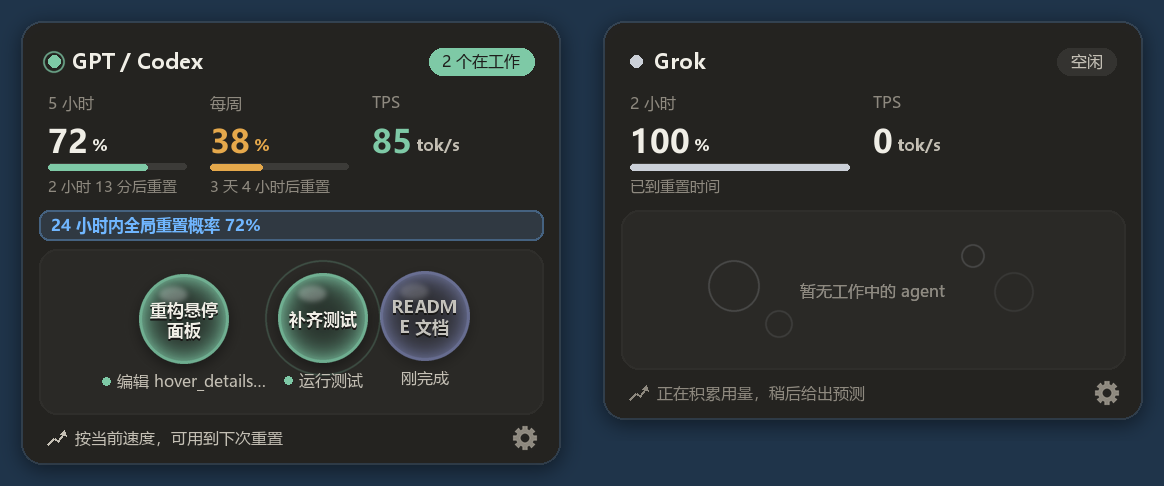
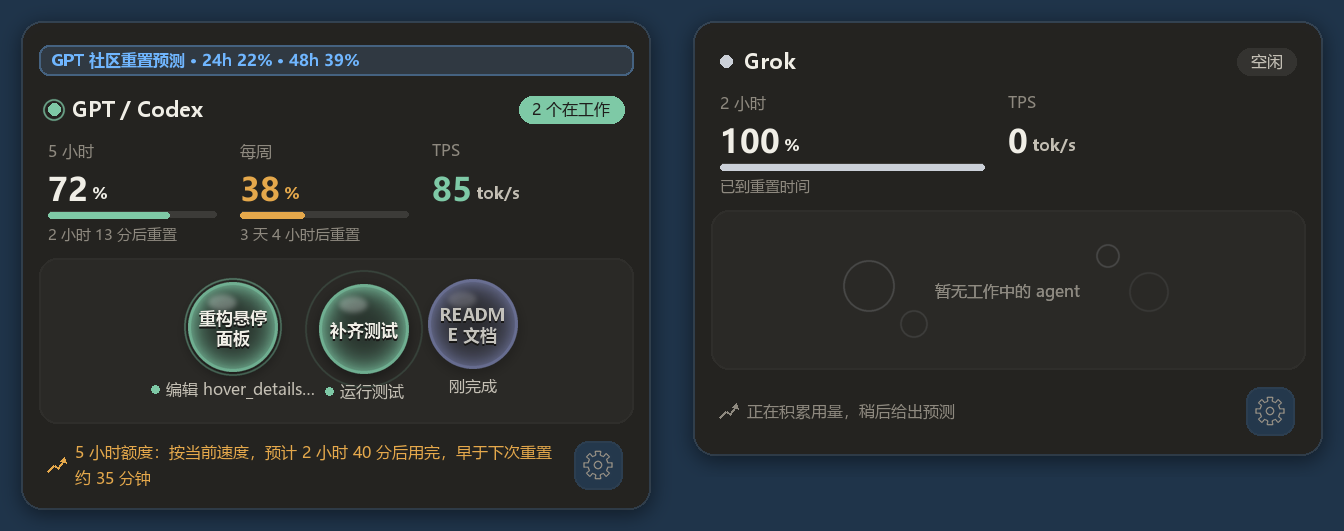
Widen quota forecasts and show reset probabilities above panel titles

diff --git a/agent_panel.py b/agent_panel.py
@@ -22,7 +22,7 @@ from detail_card import MARGIN, MUTED_TEXT, SECONDARY_TEXT, TEXT, TRACK, _compos
 from agent_tasks import width as text_units
 from icon_art import AMBER, CLAY, RESET_BLUE, accent, ring_color
 
-WIDTH = 360
+WIDTH = 420
 PAD = 18
 FIELD_TOP = 118
 BASE_RADIUS = 30.0
@@ -90,9 +90,9 @@ class PanelModel:
 
 
 METER_TOP = PAD + 32        # Top of the quota / TPS row.
-FOOTER = 30                 # Forecast line and the settings gear under the field.
-GEAR_RADIUS = 8.0
-GEAR_HIT = 14.0
+FOOTER = 54                 # Two forecast lines plus a separate settings button.
+GEAR_RADIUS = 9.0
+GEAR_HIT = 17.0
 
 
 def meter_columns(count: int) -> list[tuple[float, float]]:
@@ -102,18 +102,22 @@ def meter_columns(count: int) -> list[tuple[float, float]]:
 
 
 def footer_middle(model, field_h: float) -> float:
-    return field_top(model) + field_h + 10 + 10
+    return field_top(model) + field_h + 32
 
 
 def gear_center(model, field_h: float) -> tuple[float, float]:
-    return WIDTH - PAD - GEAR_RADIUS + 2, footer_middle(model, field_h)
+    return WIDTH - PAD - GEAR_HIT, footer_middle(model, field_h)
+
+
+def header_offset(model: PanelModel | None) -> float:
+    return 32 if model and model.banner else 0
 
 
 def field_top(model: PanelModel | None) -> float:
     if model is None:
         return FIELD_TOP
     # The reset-text row is always reserved so every source's panel is the same height.
-    return FIELD_TOP + 14 + (26 if model.banner else 0)
+    return FIELD_TOP + 14 + header_offset(model)
 
 
 def pack(bubbles, top: float = FIELD_TOP) -> tuple[dict[str, tuple[float, float]], float]:
@@ -411,7 +415,7 @@ class Scene:
 
         self.gear.target = 1.0 if gear and not self.dragging else 0.0
         self.gear.step(dt)
-        self.gear_angle = (self.gear_angle + dt * 120 * self.gear.value) % 360
+        self.gear_angle = 24 * self.gear.value
         self.field.step(dt)
         if now - self.opened > 0.08:            # let the window fade in before the bars run
             for spring in self.meters:
@@ -491,10 +495,14 @@ class Scene:
         cx, cy = gear_center(model, field_h)
         level = self.gear.value
         tint = tuple(round(a + (b - a) * level) for a, b in zip(MUTED_TEXT[:3], accent(model.letter)[:3])) + (255,)
-        sprite = gear(round(GEAR_RADIUS * (1 + 0.12 * level) * scale), tint)
+        draw = ImageDraw.Draw(frame)
+        half = GEAR_HIT - 1
+        draw.rounded_rectangle((round(at(cx - half)), round(at(cy - half)), round(at(cx + half)), round(at(cy + half))),
+                               radius=round(9 * scale), fill=_with_alpha(tint, round(12 + 20 * level)),
+                               outline=_with_alpha(tint, round(30 + 65 * level)), width=max(1, round(scale)))
+        sprite = gear(round(GEAR_RADIUS * scale), tint)
         if level > 0.02:
-            blit(frame, faded(halo(round((GEAR_RADIUS + 3) * scale), model.letter), 0.35 * level), at(cx), at(cy))
-            sprite = sprite.rotate(-self.gear_angle, resample=Image.BICUBIC)
+            sprite = sprite.rotate(-self.gear_angle, resample=Image.BICUBIC, expand=True)
         blit(frame, sprite, at(cx), at(cy))
 
         for ripple in self.ripples:
@@ -547,27 +555,28 @@ class Scene:
         """Animated header: counting quota figures and bars, easing TPS, a sonar
         ping on the title dot while agents work, drifting shells when idle."""
         draw = ImageDraw.Draw(frame)
+        meter_top = METER_TOP + header_offset(model)
         columns = meter_columns(len(self.meters))
         for (x, end), spring, item in zip(columns, self.meters, model.quota[:3]):
             value = item[1]
             shade = TEXT if value is None or value >= 50 else ring_color(value, model.letter)
             shown = None if value is None else spring.value
             blit_at(frame, figure("—" if shown is None else f"{max(0.0, shown):.0f}", "" if shown is None else "%",
-                                  shade, shade, scale), at(x), at(METER_TOP + 38))
+                                  shade, shade, scale), at(x), at(meter_top + 38))
             if shown and shown > 0.3:
                 fill = ring_color(value, model.letter)
-                draw.rounded_rectangle((round(at(x)), round(at(METER_TOP + 45)),
-                                        round(at(x + max(4.0, (end - x) * min(100.0, shown) / 100))), round(at(METER_TOP + 49))),
+                draw.rounded_rectangle((round(at(x)), round(at(meter_top + 45)),
+                                        round(at(x + max(4.0, (end - x) * min(100.0, shown) / 100))), round(at(meter_top + 49))),
                                        radius=max(1, round(2 * scale)), fill=fill)
         x = columns[-1][0]
         color = accent(model.letter)
         rate = max(0.0, self.rate.value)
         blit_at(frame, figure(f"{rate:.0f}", "tok/s", color if model.tps and rate >= 0.5 else TEXT, SECONDARY_TEXT, scale),
-                at(x), at(METER_TOP + 38))
+                at(x), at(meter_top + 38))
         if model.status_tone == "live":
             p = (self.time % 1.8) / 1.8
             blit(frame, faded(ring(round((4 + 7 * ease_out_cubic(p)) * scale), max(1, round(1.2 * scale)), model.letter),
-                              0.8 * (1 - p) ** 1.6), at(PAD + 4), at(PAD + 9))
+                              0.8 * (1 - p) ** 1.6), at(PAD + 4), at(PAD + 9 + header_offset(model)))
         if not model.bubbles:
             top = field_top(model)
             for index, (dx, dy, radius) in enumerate(((-96, -6, 16), (92, 4, 12), (-58, 18, 8), (64, -20, 7))):
@@ -771,22 +780,23 @@ def arc(radius: int, letter: str) -> Image.Image:
 
 @lru_cache(maxsize=48)
 def gear(radius: int, color: tuple) -> Image.Image:
-    """Eight-tooth settings gear with a hollow hub."""
+    """Crisp outlined cog with evenly spaced teeth and a circular hub."""
     size = (radius + 2) * 2
     big = size * SUPERSAMPLE
     r = radius * SUPERSAMPLE
     c = big / 2
     image = Image.new("RGBA", (big, big), (0, 0, 0, 0))
     draw = ImageDraw.Draw(image)
-    body, tooth_out, half = r * 0.74, r * 1.0, math.radians(13)
+    points = []
     for index in range(8):
         angle = index * math.tau / 8
-        points = [(c + math.cos(angle + s * half * k) * radius_, c + math.sin(angle + s * half * k) * radius_)
-                  for s, k, radius_ in ((-1, 1.25, body * 0.95), (-1, 0.9, tooth_out), (1, 0.9, tooth_out), (1, 1.25, body * 0.95))]
-        draw.polygon(points, fill=color)
-    draw.ellipse((c - body, c - body, c + body, c + body), fill=color)
-    hole = r * 0.34
-    draw.ellipse((c - hole, c - hole, c + hole, c + hole), fill=(0, 0, 0, 0))
+        for offset, factor in ((-22.5, .72), (-13, .72), (-10, 1), (10, 1), (13, .72), (22.5, .72)):
+            a = angle + math.radians(offset)
+            points.append((c + math.cos(a) * r * factor, c + math.sin(a) * r * factor))
+    stroke = max(1, round(1.35 * SUPERSAMPLE))
+    draw.line(points + points[:1], fill=color, width=stroke, joint="curve")
+    hole = r * .29
+    draw.ellipse((c - hole, c - hole, c + hole, c + hole), outline=color, width=stroke)
     return image.resize((size, size), Image.LANCZOS)
 
 
@@ -800,6 +810,13 @@ def forecast_text(text: str, limit: float, face, probe) -> str:
     while text and probe.textlength(text + "…", font=face) > limit:
         text = text[:-1]
     return text + "…"
+
+
+def forecast_lines(text: str, limit: float, face, probe) -> list[str]:
+    lines = _wrap(probe, text, face, limit)
+    if len(lines) > 2:
+        lines = [lines[0], forecast_text("".join(lines[1:]), limit, face, probe)]
+    return lines
 
 
 def _trend(draw, x, cy, s, color, stroke):
@@ -826,7 +843,7 @@ def background(header: tuple, field_h: int, scale: float) -> Image.Image:
     draw = ImageDraw.Draw(content)
     color = accent(letter)
     right = WIDTH - PAD
-    y = PAD
+    y = PAD + header_offset(model)
     draw.ellipse((px(PAD), px(y + 5), px(PAD + 8), px(y + 13)), fill=color)
     draw.text((px(PAD + 16), px(y + 9)), title, font=ui_font(px(14), "bold"), fill=TEXT, anchor="lm")
     pill = ui_font(px(11))
@@ -835,7 +852,7 @@ def background(header: tuple, field_h: int, scale: float) -> Image.Image:
     draw.rounded_rectangle((px(right - width), px(y), px(right), px(y + 18)), radius=px(9), fill=fill)
     draw.text((px(right - width / 2), px(y + 9)), status, font=pill, fill=ink, anchor="mm")
 
-    y = METER_TOP
+    y = METER_TOP + header_offset(model)
     label_font, small = ui_font(px(11)), ui_font(px(10))
     columns = meter_columns(len(meters))
     for (x, end), (label, reset) in zip(columns, tuple(meters) + (("TPS", ""),)):
@@ -845,7 +862,7 @@ def background(header: tuple, field_h: int, scale: float) -> Image.Image:
             if reset:
                 draw.text((px(x), px(y + 55)), reset, font=small, fill=MUTED_TEXT, anchor="lt")
     if banner:
-        y_banner = top - 32
+        y_banner = PAD - 2
         draw.rounded_rectangle((px(PAD - 6), px(y_banner), px(right + 6), px(y_banner + 20)), radius=px(7),
                                fill=_with_alpha(RESET_BLUE, 38), outline=_with_alpha(RESET_BLUE, 110), width=max(1, round(s)))
         draw.text((px(PAD + 2), px(y_banner + 10)), banner, font=ui_font(px(11), "bold"), fill=RESET_BLUE, anchor="lm")
@@ -856,7 +873,8 @@ def background(header: tuple, field_h: int, scale: float) -> Image.Image:
     middle = footer_middle(model, field_h)
     tint = FORECAST_TONES.get(model.forecast_tone, MUTED_TEXT)
     _trend(draw, px(PAD), px(middle), s, tint, max(1, round(s)))
-    face = ui_font(px(10.5))
-    line = forecast_text(model.forecast or "正在积累用量，稍后给出预测", px(WIDTH - 2 * PAD - 52), face, draw)
-    draw.text((px(PAD + 18), px(middle)), line, font=face, fill=tint, anchor="lm")
+    face = ui_font(px(11))
+    lines = forecast_lines(model.forecast or "正在积累用量，稍后给出预测", px(WIDTH - 2 * PAD - 64), face, draw)
+    for index, line in enumerate(lines):
+        draw.text((px(PAD + 18), px(middle + (index - (len(lines) - 1) / 2) * 17)), line, font=face, fill=tint, anchor="lm")
     return _compose(content, scale)

diff --git a/test_agent_tasks.py b/test_agent_tasks.py
@@ -329,6 +329,22 @@ def panel(*bubbles):
 
 
 class SceneTests(unittest.TestCase):
+    def test_long_quota_forecast_wraps_without_losing_the_ending_at_each_dpi(self):
+        from PIL import Image, ImageDraw
+        text = "5 小时额度：按当前速度，预计 2 小时 40 分后用完，早于下次重置约 35 分钟"
+        for scale in (1.0, 1.25, 1.5):
+            face = agent_panel.ui_font(round(11 * scale))
+            probe = ImageDraw.Draw(Image.new("RGBA", (1, 1)))
+            limit = round((agent_panel.WIDTH - 2 * agent_panel.PAD - 64) * scale)
+            lines = agent_panel.forecast_lines(text, limit, face, probe)
+            self.assertEqual(len(lines), 2)
+            self.assertEqual("".join(lines).replace(" ", ""), text.replace(" ", ""))
+            self.assertTrue(all(probe.textlength(line, font=face) <= limit for line in lines))
+            scene = agent_panel.Scene()
+            scene.set_model(agent_panel.PanelModel("codex", "C", "GPT / Codex", "空闲", (("5 小时", 70, "2小时后重置"),),
+                                                  0, (), "idle", "GPT 社区重置预测 · 24h 22% · 48h 39%", text, "warn"), 0)
+            self.assertIsNotNone(scene.render(scale))
+
     def test_gear_release_and_right_click_open_settings(self):
         scene = agent_panel.Scene()
         model = panel()

diff --git a/tray_app.py b/tray_app.py
@@ -414,9 +414,7 @@ class QuotaTray:
         # The Codex reset notice is shown on every panel (same size everywhere).
         banner, codex = "", self.snapshots.get("codex")
         if reset_watch.ENABLED and codex is not None and "codex" in self.snapshots:
-            banner = reset_watch.card_lines(getattr(self, "reset_outlook", None), codex.display_remaining, now)[0]
-            if banner and provider != "codex":
-                banner = "Codex · " + banner
+            banner = reset_watch.panel_line(getattr(self, "reset_outlook", None), now)
         forecast, forecast_tone = self.headline_forecast(provider)
         return agent_panel.PanelModel(provider, PROVIDERS.get(provider, provider_letter(provider)), data.get("label", provider),
                                       status, tuple(quota), data.get("display_tps") or 0.0, tuple(bubbles[:agent_panel.MAX_BUBBLES]),

diff --git a/reset_watch.py b/reset_watch.py
@@ -161,6 +161,16 @@ def ago_text(moment: float | None, now: float) -> str:
     return f"{hours / 24:.1f} 天前"
 
 
+def panel_line(outlook: ResetOutlook | None, now: float) -> str:
+    """Always show the current community probabilities above the panel title."""
+    if outlook is None:
+        return "GPT 社区重置预测 · 正在读取"
+    if outlook.level(now) == "unknown":
+        return "GPT 社区重置预测 · 数据待更新"
+    second = "—" if outlook.prob_48 is None else f"{outlook.prob_48}%"
+    return f"GPT 社区重置预测 · 24h {outlook.prob_24}% · 48h {second}"
+
+
 def card_lines(outlook: ResetOutlook | None, remaining: float | None, now: float) -> tuple[str, list[str]]:
     """(banner, notes) for the Codex card.  The banner is only set when a
     global reset looks likely within 24 hours."""

diff --git a/test_reset_watch.py b/test_reset_watch.py
@@ -18,6 +18,13 @@ RADAR = {"code": 0, "data": {"probability24h": 12, "probability48h": 30, "events
 
 
 class ResetWatchTests(unittest.TestCase):
+    def test_panel_probability_is_visible_even_below_alert_threshold(self):
+        now = time.time()
+        outlook = ResetOutlook("s", "p", 22, 39, fetched_at=now)
+        self.assertEqual(reset_watch.panel_line(outlook, now), "GPT 社区重置预测 · 24h 22% · 48h 39%")
+        self.assertIn("正在读取", reset_watch.panel_line(None, now))
+        self.assertIn("数据待更新", reset_watch.panel_line(outlook, now + reset_watch.STALE_SECONDS + 1))
+
     def test_parsers(self):
         a = parse_willreset(WILLRESET)
         self.assertEqual((a.prob_24, a.prob_48, a.promise, a.last_reset_text), (71, 81, "Done", "Direct usage reset"))

diff --git a/demo_assets.py b/demo_assets.py
@@ -17,8 +17,8 @@ def demo_models() -> tuple[ap.PanelModel, ap.PanelModel]:
         (bubble("a", "重构悬停面板", "编辑 hover_details.py", "C", True, "重构悬停面板气泡交互"),
          bubble("b", "补齐测试", "运行测试", "C", True),
          bubble("d", "README 文档", "刚完成", "M", False)),
-        "live", "24 小时内全局重置概率 72%",
-        "按当前速度，可用到下次重置", "ok")
+        "live", "GPT 社区重置预测 · 24h 22% · 48h 39%",
+        "5 小时额度：按当前速度，预计 2 小时 40 分后用完，早于下次重置约 35 分钟", "warn")
     idle = ap.PanelModel("grok", "G", "Grok", "空闲", (("2 小时", 100.0, "已到重置时间"),), None, (), "idle")
     return busy, idle
 
